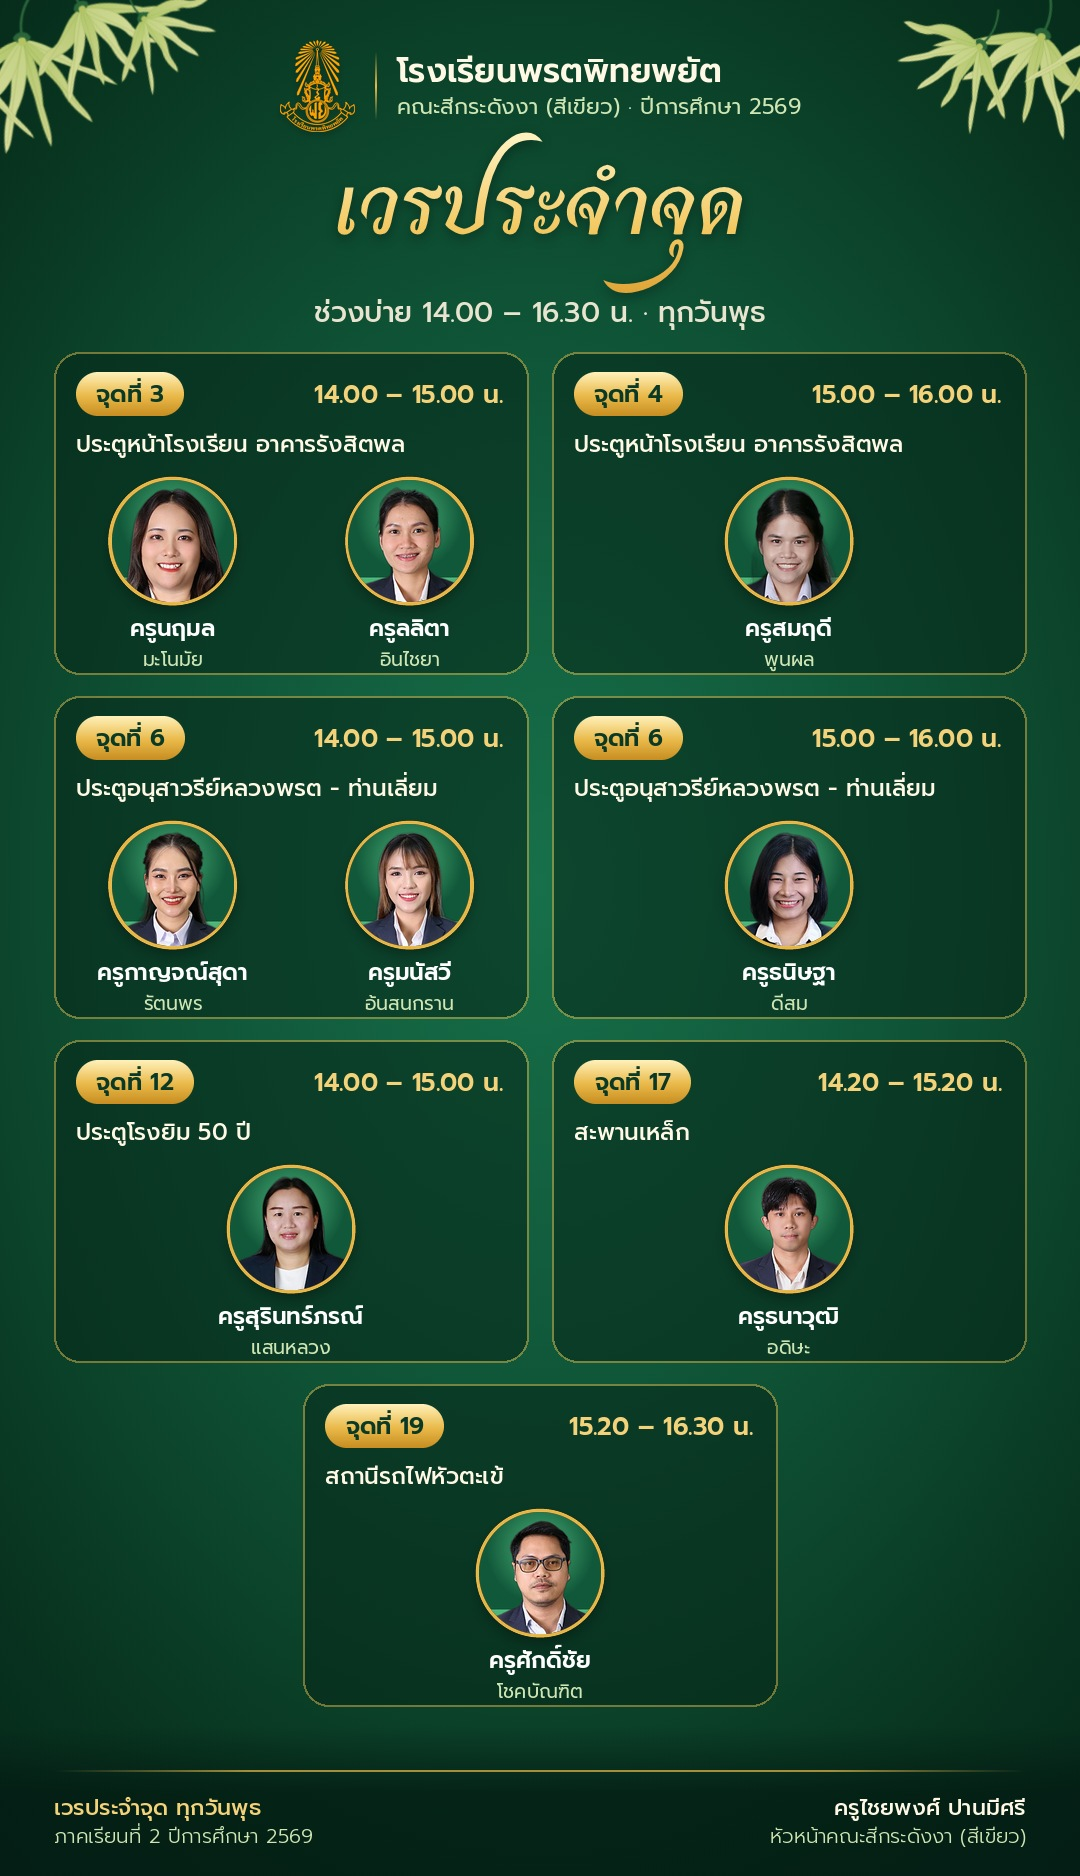
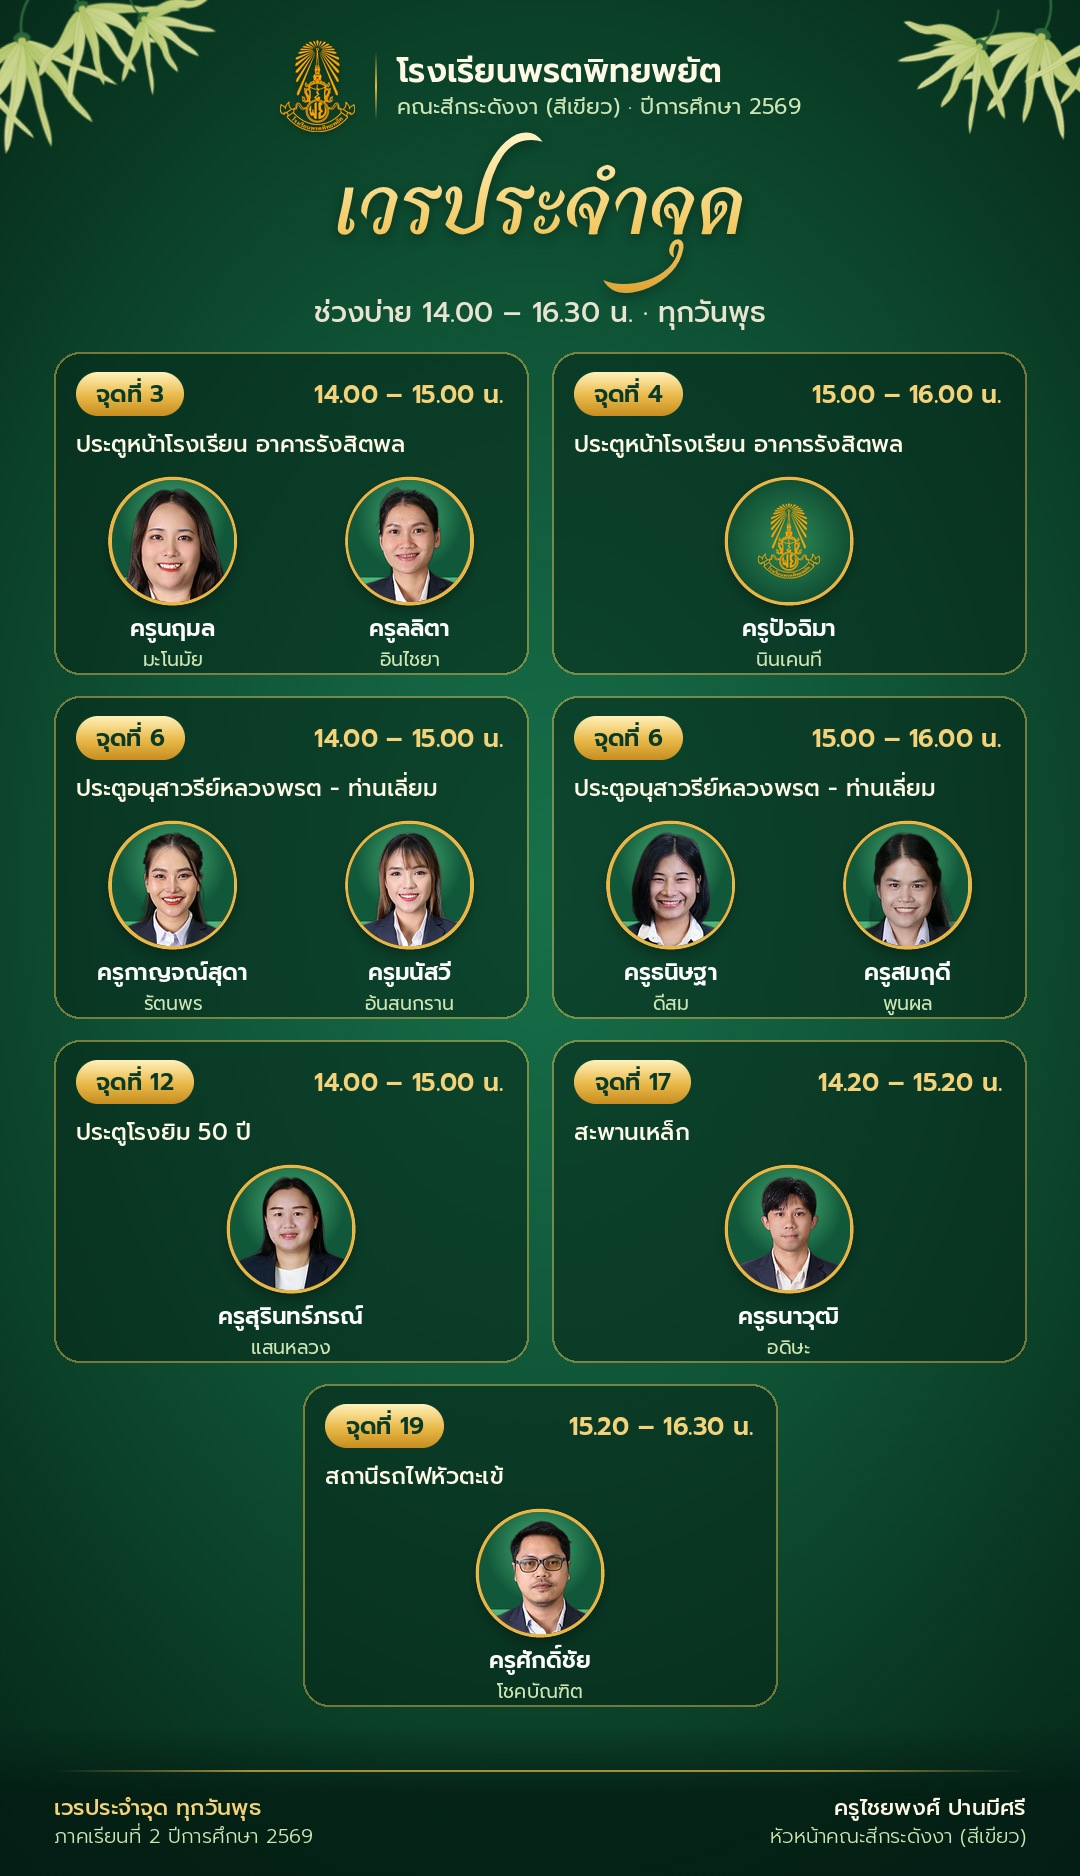
อัปเดตเวรประจำจุดตามแบบฟอร์มฉบับแก้ไข 22 ต.ค. 2569

Changed region(s): [[0.55, 0.4328, 0.9167, 0.5565], [0.6722, 0.2473, 0.7944, 0.371]]

diff --git a/data/news.js b/data/news.js
@@ -14,7 +14,7 @@ KD.news = [
     body: "ท่านผู้อำนวยการอาภาพร วรรณสุนธยา แจ้งเมื่อวันที่ 21 ตุลาคม 2569 ว่า นักเรียนที่จะมาซ้อมกิจกรรมคณะสีที่โรงเรียนในช่วงปิดภาคเรียน ต้องมีชื่อในรายชื่อขออนุญาตทำกิจกรรมที่คณะสีส่งให้โรงเรียนในแต่ละวัน (ส่งภายใน 10.00 น.) และลงชื่อตอนมาและตอนกลับที่ป้อม รปภ. ทุกวัน เพื่อการดูแลความปลอดภัยร่วมกัน นักเรียนที่ยังไม่มีชื่อจะยังเข้าโรงเรียนไม่ได้ ยกเว้นมาติดต่อขอเอกสารราชการ ก่อนมาโรงเรียนให้ตรวจกับหัวหน้าคณะสีก่อนว่ามีชื่อแล้ว และนักเรียนที่เล่นฟุตบอลในสนามเทนนิส (พื้นที่โซน 1 ที่สีเขียวดูแล) ขออย่านำหินมาวางกลางสนาม และช่วยกันดูแลความสะอาด เพราะคุณครูเพิ่งร่วมกันทำความสะอาดโรงเรียนครั้งใหญ่",
     link: "index.html#zone", linkText: "ดูพื้นที่โซน 1 ของสีเขียว" },
   { date: "2026-10-19", type: "ประกาศ", title: "เวรประจำจุดคณะสีกระดังงา ภาคเรียนที่ 2/2569", image: "news_dutylist_2569-2.jpg",
-    body: "สรุปเวรประจำจุดของครูคณะสีเขียว ภาคเรียนที่ 2/2569 จากการลงชื่อของคุณครูแล้ว ลงเวรทุกวันพุธ 20 จุด คุณครู 30 ท่าน ครบทุกจุดแล้ว ดูได้ว่าครูแต่ละท่านอยู่จุดไหน เวลาเท่าไร พร้อมรูปครู และดาวน์โหลดภาพเวรไปส่งต่อในกลุ่ม LINE ได้ที่หน้าเวรประจำจุด ปรับล่าสุด 19 ต.ค. 2569 ครูสมฤดี พูนผล ย้ายไปจุดที่ 4 ประตูหน้าโรงเรียน อาคารรังสิตพล (15.00–16.00 น.) และครูศุภาวรรณ จันทะมูล ครูใหม่ของคณะสี ลงเวรจุดที่ 18 สถานีรถไฟหัวตะเข้ (06.30–07.40 น.) ส่วนครูต่างชาติ Mr. Craig Anthony Martin ลงเวรจุดที่ 5 ประตูอนุสาวรีย์หลวงพรต - ท่านเลี่ยม (06.30–07.30 น.) คู่กับครูณัฐนนท์ ลิ้มทองคำ ถ้าข้อมูลไม่ถูกต้อง แจ้งครูไชยพงศ์ ปานมีศรี หัวหน้าคณะสีได้เลย",
+    body: "สรุปเวรประจำจุดของครูคณะสีเขียว ภาคเรียนที่ 2/2569 จากการลงชื่อของคุณครูแล้ว ลงเวรทุกวันพุธ 20 จุด คุณครู 31 ท่าน ครบทุกจุดแล้ว ดูได้ว่าครูแต่ละท่านอยู่จุดไหน เวลาเท่าไร พร้อมรูปครู และดาวน์โหลดภาพเวรไปส่งต่อในกลุ่ม LINE ได้ที่หน้าเวรประจำจุด ปรับล่าสุด 22 ต.ค. 2569 ตามแบบฟอร์มเวรฉบับแก้ไข ครูปัจฉิมา นินเคนที ครูใหม่ที่เพิ่งย้ายเข้ามา ลงเวรจุดที่ 4 ประตูหน้าโรงเรียน อาคารรังสิตพล (15.00–16.00 น.) ครูสมฤดี พูนผล กลับไปลงเวรจุดที่ 6 ประตูอนุสาวรีย์หลวงพรต - ท่านเลี่ยม (15.00–16.00 น.) คู่กับครูธนิษฐา ดีสม และครูศุภาวรรณ จันทะมูล ครูใหม่ของคณะสี ลงเวรจุดที่ 18 สถานีรถไฟหัวตะเข้ (06.30–07.40 น.) ส่วนครูต่างชาติ Mr. Craig Anthony Martin ลงเวรจุดที่ 5 ประตูอนุสาวรีย์หลวงพรต - ท่านเลี่ยม (06.30–07.30 น.) คู่กับครูณัฐนนท์ ลิ้มทองคำ ถ้าข้อมูลไม่ถูกต้อง แจ้งครูไชยพงศ์ ปานมีศรี หัวหน้าคณะสีได้เลย",
     link: "duty.html", linkText: "ดูเวรของครูแต่ละท่าน" },
   { date: "2026-10-18", type: "ประกาศ", title: "เปิดลงเวรประจำจุดคณะสีเขียว ภาคเรียนที่ 2/2569", image: "news_duty_2569-2.jpg",
     body: "ครูไชยพงศ์ ปานมีศรี หัวหน้าคณะสี แจ้งว่าจะเปิดให้ครูคณะสีเขียวลงเวรประจำจุดของภาคเรียนที่ 2 ในวันจันทร์ที่ 19 ตุลาคม 2569 เวลา 08.00–09.00 น. ขอให้ครูดูตารางสอนออนไลน์ประกอบการเลือกจุด ภาคเรียนนี้มีจุดใหม่ที่สถานีรถไฟหัวตะเข้ ทั้งช่วงเช้าและช่วงเย็น แบบฟอร์มมีช่องลงชื่อทั้งหมด 32 ช่อง",

diff --git a/data/duty.js b/data/duty.js
@@ -1,5 +1,5 @@
 // เวรประจำจุดของครูคณะสีกระดังงา (หน้า duty.html และบรรทัด "เวร" ในทำเนียบครู) — ไฟล์นี้แก้ด้วยมือได้
-// ข้อมูลจากชีตลงเวรของครูไชยพงศ์ ตรวจเมื่อ 19 ต.ค. 2569 (ฉบับแก้ไข 3: ครูสมฤดีย้ายไปจุด 4 ครูศุภาวรรณ ครูใหม่ ลงจุด 18 ครูต่างชาติลงจุด 5)
+// ข้อมูลจากชีตลงเวรของครูไชยพงศ์ ตรวจเมื่อ 19 ต.ค. 2569 (ฉบับแก้ไข 3: ครูศุภาวรรณ ครูใหม่ ลงจุด 18 ครูต่างชาติลงจุด 5) · แบบฟอร์มฉบับแก้ไข 22 ต.ค. 2569: ครูปัจฉิมา ครูใหม่ ลงจุด 4 ครูสมฤดีกลับไปจุด 6
 // spot: เลขจุด · place: บริเวณ · time: เวลา · period: "เช้า" | "กลางวัน" | "บ่าย"
 // teachers: ชื่อครูให้ตรงกับชื่อใน data/teachers.js (รูปครูดึงจากทำเนียบครูให้เอง) ถ้ายังไม่มีครูลงเวรให้เว้นเป็น []
 //   ครูที่ยังไม่อยู่ในทำเนียบครู (ยังไม่มีรูป) หน้าเวรจะแสดงตราโรงเรียนแทนรูป
@@ -22,11 +22,11 @@ KD.duty = [
  {"spot": 1, "place": "ประตูหน้าโรงเรียน อาคารรังสิตพล", "time": "06.30 – 07.30 น.", "period": "เช้า", "teachers": ["ครูจุไรรัตน์ นาคเทวัญ", "ครูมนตรี ฉิมเจริญ"]},
  {"spot": 2, "place": "ประตูหน้าโรงเรียน อาคารรังสิตพล", "time": "07.30 – 08.30 น.", "period": "เช้า", "teachers": ["ครูชนันญภัค คชอาจ", "ครูมโน คงสวัสดิ์"]},
  {"spot": 3, "place": "ประตูหน้าโรงเรียน อาคารรังสิตพล", "time": "14.00 – 15.00 น.", "period": "บ่าย", "teachers": ["ครูนฤมล มะโนมัย", "ครูลลิตา อินไชยา"]},
- {"spot": 4, "place": "ประตูหน้าโรงเรียน อาคารรังสิตพล", "time": "15.00 – 16.00 น.", "period": "บ่าย", "teachers": ["ครูสมฤดี พูนผล"]},
+ {"spot": 4, "place": "ประตูหน้าโรงเรียน อาคารรังสิตพล", "time": "15.00 – 16.00 น.", "period": "บ่าย", "teachers": ["ครูปัจฉิมา นินเคนที"]},
  {"spot": 5, "place": "ประตูอนุสาวรีย์หลวงพรต - ท่านเลี่ยม", "time": "06.30 – 07.30 น.", "period": "เช้า", "teachers": ["ครูณัฐนนท์ ลิ้มทองคำ", "Mr. Craig Anthony Martin"]},
  {"spot": 5, "place": "ประตูอนุสาวรีย์หลวงพรต - ท่านเลี่ยม", "time": "07.30 – 08.30 น.", "period": "เช้า", "teachers": ["ครูวราทิพย์ ศรีอ่ำอ่วม", "ครูสุภัทรชัย สืบสกุล"]},
  {"spot": 6, "place": "ประตูอนุสาวรีย์หลวงพรต - ท่านเลี่ยม", "time": "14.00 – 15.00 น.", "period": "บ่าย", "teachers": ["ครูกาญจณ์สุดา รัตนพร", "ครูมนัสวี อ้นสนกราน"]},
- {"spot": 6, "place": "ประตูอนุสาวรีย์หลวงพรต - ท่านเลี่ยม", "time": "15.00 – 16.00 น.", "period": "บ่าย", "teachers": ["ครูธนิษฐา ดีสม"]},
+ {"spot": 6, "place": "ประตูอนุสาวรีย์หลวงพรต - ท่านเลี่ยม", "time": "15.00 – 16.00 น.", "period": "บ่าย", "teachers": ["ครูธนิษฐา ดีสม", "ครูสมฤดี พูนผล"]},
  {"spot": 7, "place": "ประตู 2 หน้าลานองค์พระพรตพุทธลีลา", "time": "11.00 – 11.50 น.", "period": "กลางวัน", "teachers": ["ครูจุฬาลักษณ์ กุลบุตรดี"]},
  {"spot": 8, "place": "ประตู 2 หน้าลานองค์พระพรตพุทธลีลา", "time": "11.50 – 12.40 น.", "period": "กลางวัน", "teachers": ["ครูนพพล ภาณุสุวัฒน์"]},
  {"spot": 9, "place": "ประตูสระว่ายน้ำ", "time": "11.00 – 11.50 น.", "period": "กลางวัน", "teachers": ["ครูศุภฤกษ์ เชื้อมั่น"]},

diff --git a/duty.html b/duty.html
@@ -4,13 +4,13 @@
 <meta charset="utf-8">
 <meta name="viewport" content="width=device-width, initial-scale=1">
 <title>เวรประจำจุด · คณะสีกระดังงา (สีเขียว)</title>
-<meta name="description" content="เวรประจำจุดของครูคณะสีกระดังงา (สีเขียว) ภาคเรียนที่ 2/2569 ทุกวันพุธ 20 จุด คุณครู 30 ท่าน ดูได้ว่าครูแต่ละท่านอยู่จุดไหน เวลาเท่าไร">
+<meta name="description" content="เวรประจำจุดของครูคณะสีกระดังงา (สีเขียว) ภาคเรียนที่ 2/2569 ทุกวันพุธ 20 จุด คุณครู 31 ท่าน ดูได้ว่าครูแต่ละท่านอยู่จุดไหน เวลาเท่าไร">
 <link rel="icon" href="assets/img/favicon.png">
 <link rel="stylesheet" href="css/style.css">
 </head>
 <body>
 <section class="page-head duty-head">
-  <div class="wrap"><div class="eyebrow">คณะสีกระดังงา · สีเขียว</div><h1>เวรประจำจุด</h1><p id="duty-sub">ภาคเรียนที่ 2/2569 · ทุกวันพุธ · 20 จุด · คุณครู 30 ท่าน</p></div>
+  <div class="wrap"><div class="eyebrow">คณะสีกระดังงา · สีเขียว</div><h1>เวรประจำจุด</h1><p id="duty-sub">ภาคเรียนที่ 2/2569 · ทุกวันพุธ · 20 จุด · คุณครู 31 ท่าน</p></div>
   <img class="duty-flower f1" src="assets/img/kradangnga-flower.svg" alt="" aria-hidden="true">
   <img class="duty-flower f2" src="assets/img/kradangnga-flower.svg" alt="" aria-hidden="true">
 </section>
